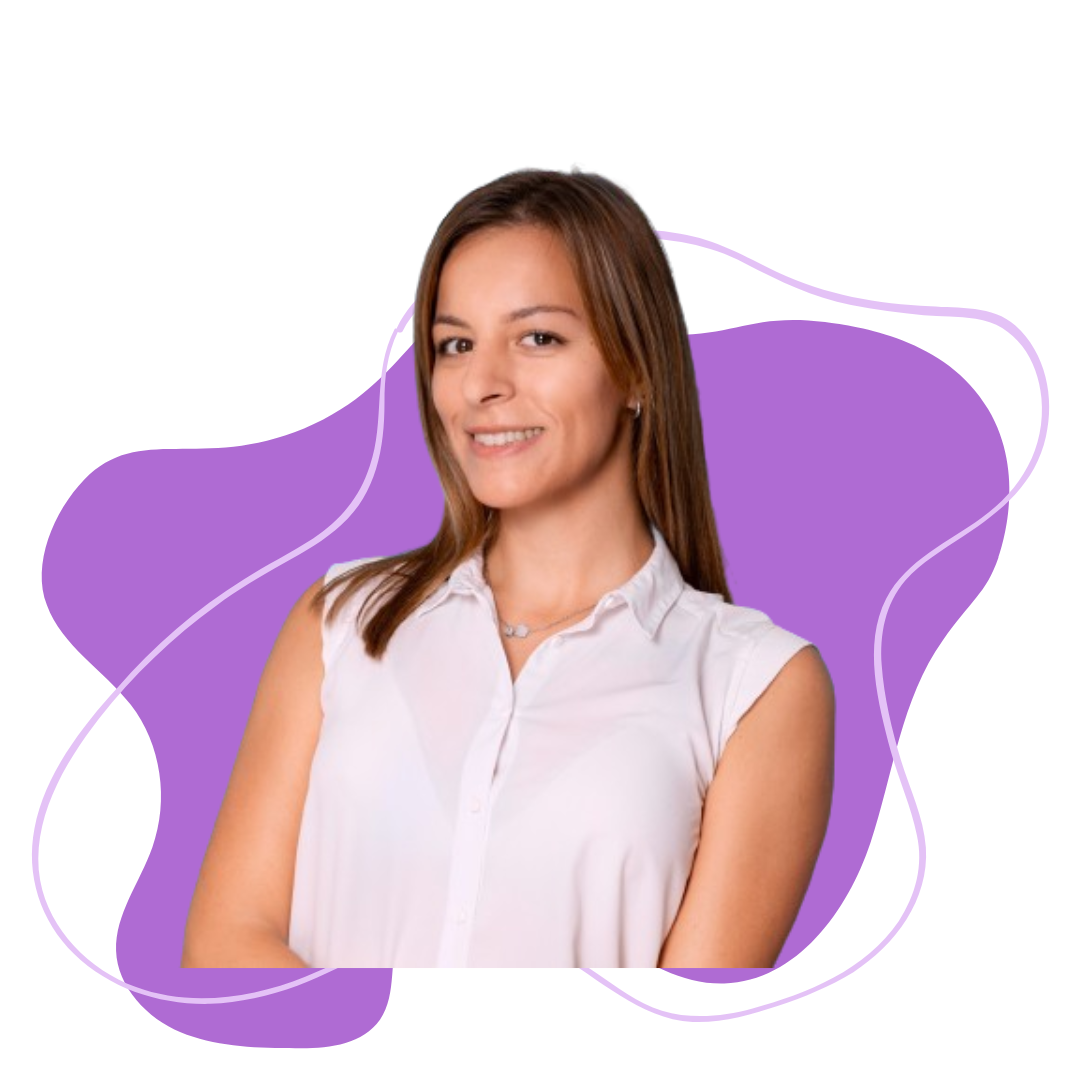
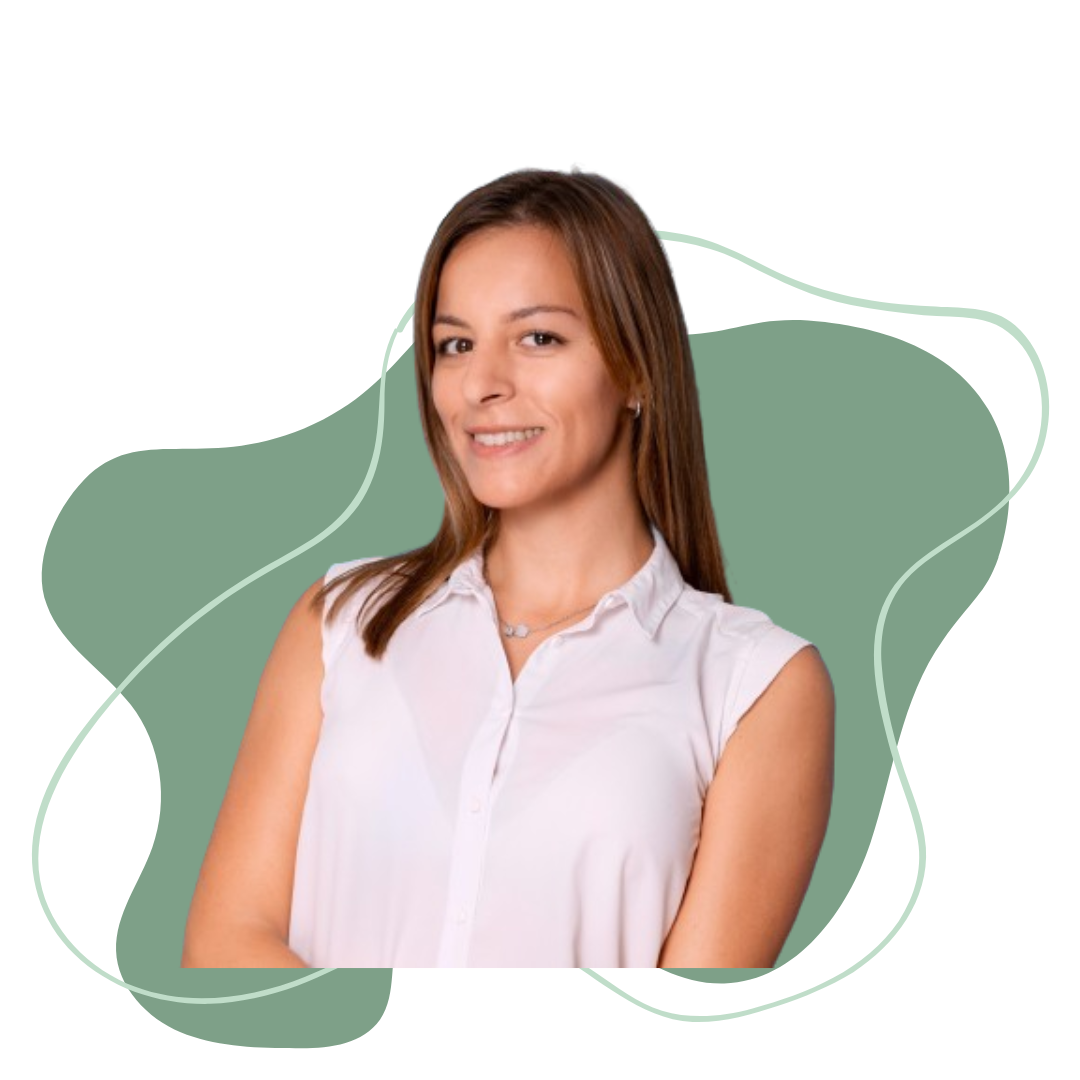
adding links, styles

diff --git a/src/App.css b/src/App.css
@@ -1,8 +1,10 @@
+@import url('https://fonts.googleapis.com/css?family=Poppins');
+
 body {
   margin: 0;
-  font-family: "Roboto", sans-serif;
-  -webkit-font-smoothing: "Roboto", sans-serif;
-  -moz-osx-font-smoothing: "Roboto", sans-serif;
+  font-family: "Poppins", sans-serif;
+  -webkit-font-smoothing: "Poppins", sans-serif;
+  -moz-osx-font-smoothing: "Poppins", sans-serif;
   font-style: normal;
 }
 
@@ -17,10 +19,10 @@ p {
 }
 
 :root {
-  --primary: #af6bd3;
+  --primary: #7ea088;
   --heading-color: #282938;
-  --bg-shade: #f5fcff;
-  --github: #bb8db3;
+  --bg-shade: #fefffa;
+  --github: #a7c0a2;
   --darkblue: #1c1e53;
   --black: #000000;
   --white: #ffffff;
@@ -29,7 +31,7 @@ p {
 .btn {
   font-family: "Poppins";
   display: inline-block;
-  padding: 14px 32px;
+  padding: 13px 28px;
   font-size: 16px;
   font-style: normal;
   font-weight: 400;
@@ -38,10 +40,10 @@ p {
   text-align: center;
   text-decoration: none;
   border-radius: 4px;
-  -webkit-border-radius: 30px;
-  -moz-border-radius: 30px;
-  -ms-border-radius: 30px;
-  -o-border-radius: 30px;
+  -webkit-border-radius: 10px;
+  -moz-border-radius: 10px;
+  -ms-border-radius: 10px;
+  -o-border-radius: 10px;
   transition: background-color 0.5s;
   -webkit-transition: background-color 0.5s;
   -moz-transition: background-color 0.5s;
@@ -82,9 +84,13 @@ p {
   box-shadow: 0 1px 2px 0 rgba(16, 24, 40, 0.95);
 }
 
-.btn-github:hover {
-  color: var(--github);
-  background-color: var(--white);
+.btn-github > a {
+  text-decoration: none;
+  color: #fff;
+}
+
+.btn-github > a:hover {
+  color: var(--black);
 }
 
 h1 {
@@ -107,7 +113,7 @@ h3 {
 
 .text-lg {
   color: var(--darkblue);
-  font-size: 16px;
+  font-size: 15px;
   font-style: normal;
   font-weight: 400;
   line-height: 24px;
@@ -115,7 +121,7 @@ h3 {
 
 .text-md {
   color: var(--darkblue);
-  font-size: 18px;
+  font-size: 16px;
   font-style: normal;
   font-weight: 400;
   line-height: 27px;
@@ -152,7 +158,7 @@ h3 {
   display: flex;
   justify-content: space-between;
   align-items: center;
-  padding: 15px 85.33px;
+  padding: 15px 85px;
   background: var(--white);
   box-shadow: 0px 5.333px 88px 0 rgba(0, 0, 0, 0.1);
   position: fixed;
@@ -165,7 +171,7 @@ h3 {
   list-style: none;
   display: flex;
   align-items: flex-start;
-  gap: 42.667px;
+  gap: 45px;
   text-decoration: none;
 }
 
@@ -174,11 +180,10 @@ h3 {
 }
 
 .navbar-content {
-  color: var(--darkblue);
   font-size: 16px;
   font-style: normal;
   font-weight: 600;
-  line-height: 24px;
+  line-height: 20px;
   cursor: pointer;
 }
 
@@ -190,7 +195,7 @@ h3 {
 .hero-section {
   display: grid;
   grid-template-columns: repeat(2, 1fr);
-  padding: 133px 120px 133px;
+  padding: 110px 120px 40px;
   align-items: center;
   justify-content: space-between;
   gap: 200px;
@@ -208,17 +213,17 @@ h3 {
   display: flex;
   flex-direction: column;
   align-items: flex-start;
-  gap: 21.333px;
+  gap: 21px;
 }
 
 .hero-section-content-box > button {
-  margin-top: 21.333px;
+  margin-top: 21px;
 }
 
 .hero-section-title {
   color: var(--heading-color);
-  font-size: 74.667px;
-  font-weight: 700;
+  font-size: 75px;
+  font-weight: 800;
   line-height: 90px;
   align-self: stretch;
 }
@@ -228,7 +233,6 @@ h3 {
 }
 
 .hero-section-title-description {
-  color: var(--darkblue);
   font-size: 24px;
   font-weight: 400;
   line-height: 36px;
@@ -288,17 +292,6 @@ h3 {
   color: var(--darkblue);
 }
 
-.skills-section-img {
-  display: flex;
-  padding: 13px;
-  justify-content: center;
-  align-items: center;
-  gap: 13px;
-  border-radius: 10px;
-  background: #fff;
-  box-shadow: 0 0 16px 0 rgba(0, 0, 0, 0.1);
-}
-
 .skills-section-card-content {
   display: flex;
   flex-direction: column;
@@ -316,10 +309,10 @@ h3 {
 
 .skills-section-description {
   color: var(--black);
-  font-size: 16px;
+  font-size: 13px;
   font-style: normal;
   font-weight: 400;
-  line-height: 32px;
+  line-height: 27px;
 }
 
 /* About section */
@@ -456,7 +449,7 @@ h3 {
 
 .contact-input {
   display: flex;
-  font-family: "Roboto";
+  font-family: "Poppins";
   padding: 16px;
   align-items: center;
   align-self: stretch;

diff --git a/src/Pages/Home/AboutMe.jsx b/src/Pages/Home/AboutMe.jsx
@@ -10,8 +10,8 @@ const AboutMe = () => {
                 <h1 className="skills-section-heading">
                     About Me
                 </h1>
-                <p className="hero-section-description">Lorem ipsum dolor, sit amet consectetur adipisicing elit. Ea, quod. Unde iure ratione placeat consequuntur recusandae eaque voluptas ad eveniet velit nulla, nemo neque, soluta optio quaerat ducimus in porro?</p>
-                <p className="hero-section-description">Lorem ipsum dolor, sit amet consectetur adipisicing elit. Ea, quod. Unde iure ratione placeat consequuntur recusandae eaque voluptas ad eveniet velit nulla, nemo neque, soluta optio quaerat ducimus in porro?</p>
+                <p className="hero-section-description">As someone who's passionate about technology and loves learning new things, I've navigated a journey from excelling in mathematics during high school to delving into e-business at the Faculty of Economics. Along the way, I've eagerly dived into courses on Digital Marketing, SEO, and Web Development, refining my skills in market research, optimizing campaigns, and managing social media.</p>
+                <p className="hero-section-description">With expertise in HTML5, CSS, JavaScript, and frameworks like React and Node.js, complemented by my natural knack for creative problem-solving, I'm eager to bring my unique talents to innovative projects and continue evolving in the dynamic tech world.</p>
             </div>
         </div>
     </section>

diff --git a/src/Pages/Home/HeroSection.jsx b/src/Pages/Home/HeroSection.jsx
@@ -1,3 +1,5 @@
+import { Link } from "react-scroll";
+
 const HeroSection = () => {
   return (
     <section id="heroSection" className="hero-section">
@@ -9,12 +11,13 @@ const HeroSection = () => {
             JavaScript Developer
           </h1>
           <p className="hero-section-description">
-            Creative person, a rapid knowledge absorber and curious 
-            <br /> individual with successfully
-            completed JavaScript Academy.
+            Creative person, a rapid knowledge absorber and curious
+            <br /> individual with successfully completed JavaScript Academy.
           </p>
         </div>
-        <button className="btn btn-primary">Get In Touch</button>
+        <Link to="Contact" className="btn btn-primary">
+          Get In Touch
+        </Link>
       </div>
       <div className="hero-section-img">
         <img src="./img/hero_section_img.png" alt="img" />

diff --git a/src/Pages/Home/Contact.jsx b/src/Pages/Home/Contact.jsx
@@ -5,8 +5,7 @@ const Contact = () => {
         <p className="sub-title">Get In Touch</p>
         <h2>Contact Me</h2>
         <p className="text-lg">
-          Lorem ipsum, dolor sit amet consectetur adipisicing elit. Magni,
-          tempore.
+        Feel free to reach out to me through the contact form for any inquiries.
         </p>
       </div>
       <form className="contact-form-container">
@@ -44,7 +43,7 @@ const Contact = () => {
           <label htmlFor="phone-number" className="contact-label">
             <span className="text-md">Phone number</span>
             <input
-              type="number"
+              type="phone"
               className="contact-input text-md"
               name="phone-number"
               id="phone-number"

diff --git a/src/Pages/Home/Skills.jsx b/src/Pages/Home/Skills.jsx
@@ -9,7 +9,7 @@ const Skills = () => {
                 {data.skills.map((item, i) => (
                     <div key={i} className="skills-section-card">
                         <div className="skills-section-img">
-                            <img src={item.source} alt="front-end-icon" />
+                            <img src={item.source} width={200} />
                         </div>
                         <div className="skills-section-card-content"> 
                             <h3 className="skills-section-title">{item.title}</h3>

diff --git a/src/Pages/Home/Portfolio.jsx b/src/Pages/Home/Portfolio.jsx
@@ -9,7 +9,9 @@ const Portfolio = () => {
           <h2 className="section-heading">My Portfolio</h2>
         </div>
         <div>
-          <button className="btn btn-github">Visit My GitHub</button>
+          <button className="btn btn-github">
+            <a href="https://github.com/aang3la" target="_blank">Visit My GitHub</a>
+            </button>
         </div>
       </div>
       <div className="portfolio-section-container">
